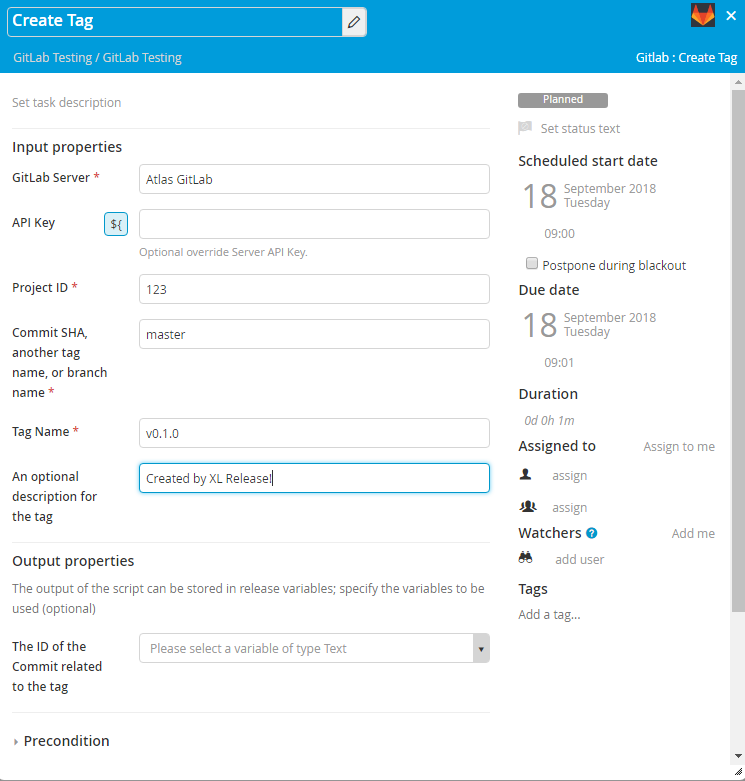
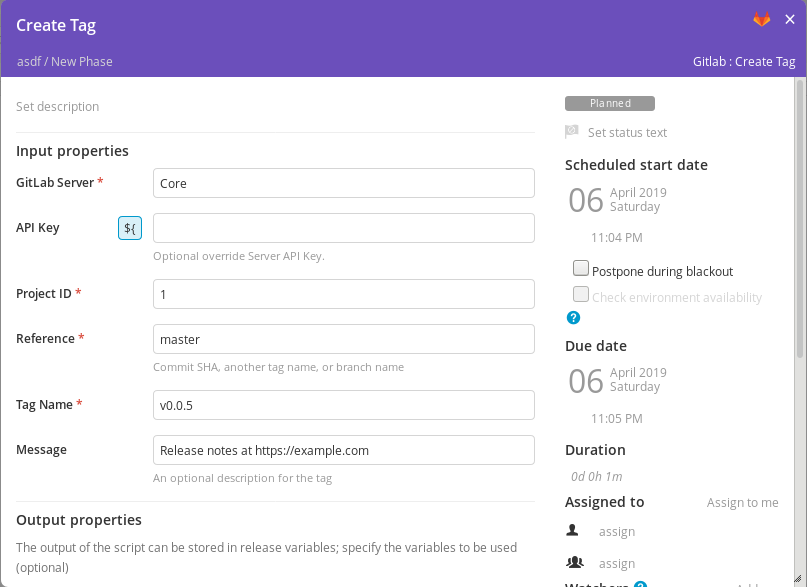
Update README screenshots and task documentation

diff --git a/README.md b/README.md
@@ -17,11 +17,12 @@ Please see the [XL Release Documentation](https://docs.xebialabs.com/xl-release/
 The xlr-gitlab-plugin provides the following XL Release functionality:
 
 ### Tasks ###
-  * Create a merge request in GitLab.
-  * Accept a merge request in GitLab.
-  * Query for projects in GitLab.
-  * Query for merge requests in GitLab.
-  * Create a Tag in GitLab.
+  * Query for projects
+  * Query for merge requests
+  * Create a merge request
+  * Accept a merge request
+  * Create a tag
+  * Create a branch
   
 ### Webhook (Configured in Gitlab) ###
   * Commit Webhook
@@ -75,6 +76,15 @@ The xlr-gitlab-plugin provides the following XL Release functionality:
   *  State : State of the Merge Requests to find (all, opened, closed, merged).
   *  Merge Requests : The list of Merge Requests discovered by the query (json).
 
+#### Create Branch
+![Create Branch](images/create_branch.png)
+
+  *  GitLab Server : The GitLab Server configuration to use for this task.
+  *  API Key : Optional override API Key.
+  *  Project ID : Numerical Project ID for GitLab Project.
+  *  New Branch Name : The name of the branch to be created.
+  *  Ref : Commit SHA or existing branch name to create the new branch from.
+
 #### Create Tag
 ![Create Tag](images/create_tag.png)
 
@@ -122,3 +132,12 @@ http://username:password@xlrserver:port/api/extension/gitlab/pr_webhook?template
 ![Release Variables created](images/pr_webhook_variables.png)
 
 
+## Dashboard Tiles ##
+
+#### Merge Requests
+
+##### Tile View
+![Merge Requests Tile Small](images/merge_requests_tile_small.png)
+
+##### Expanded View
+![Merge Requests Tile Large](images/merge_requests_tile_large.png)
